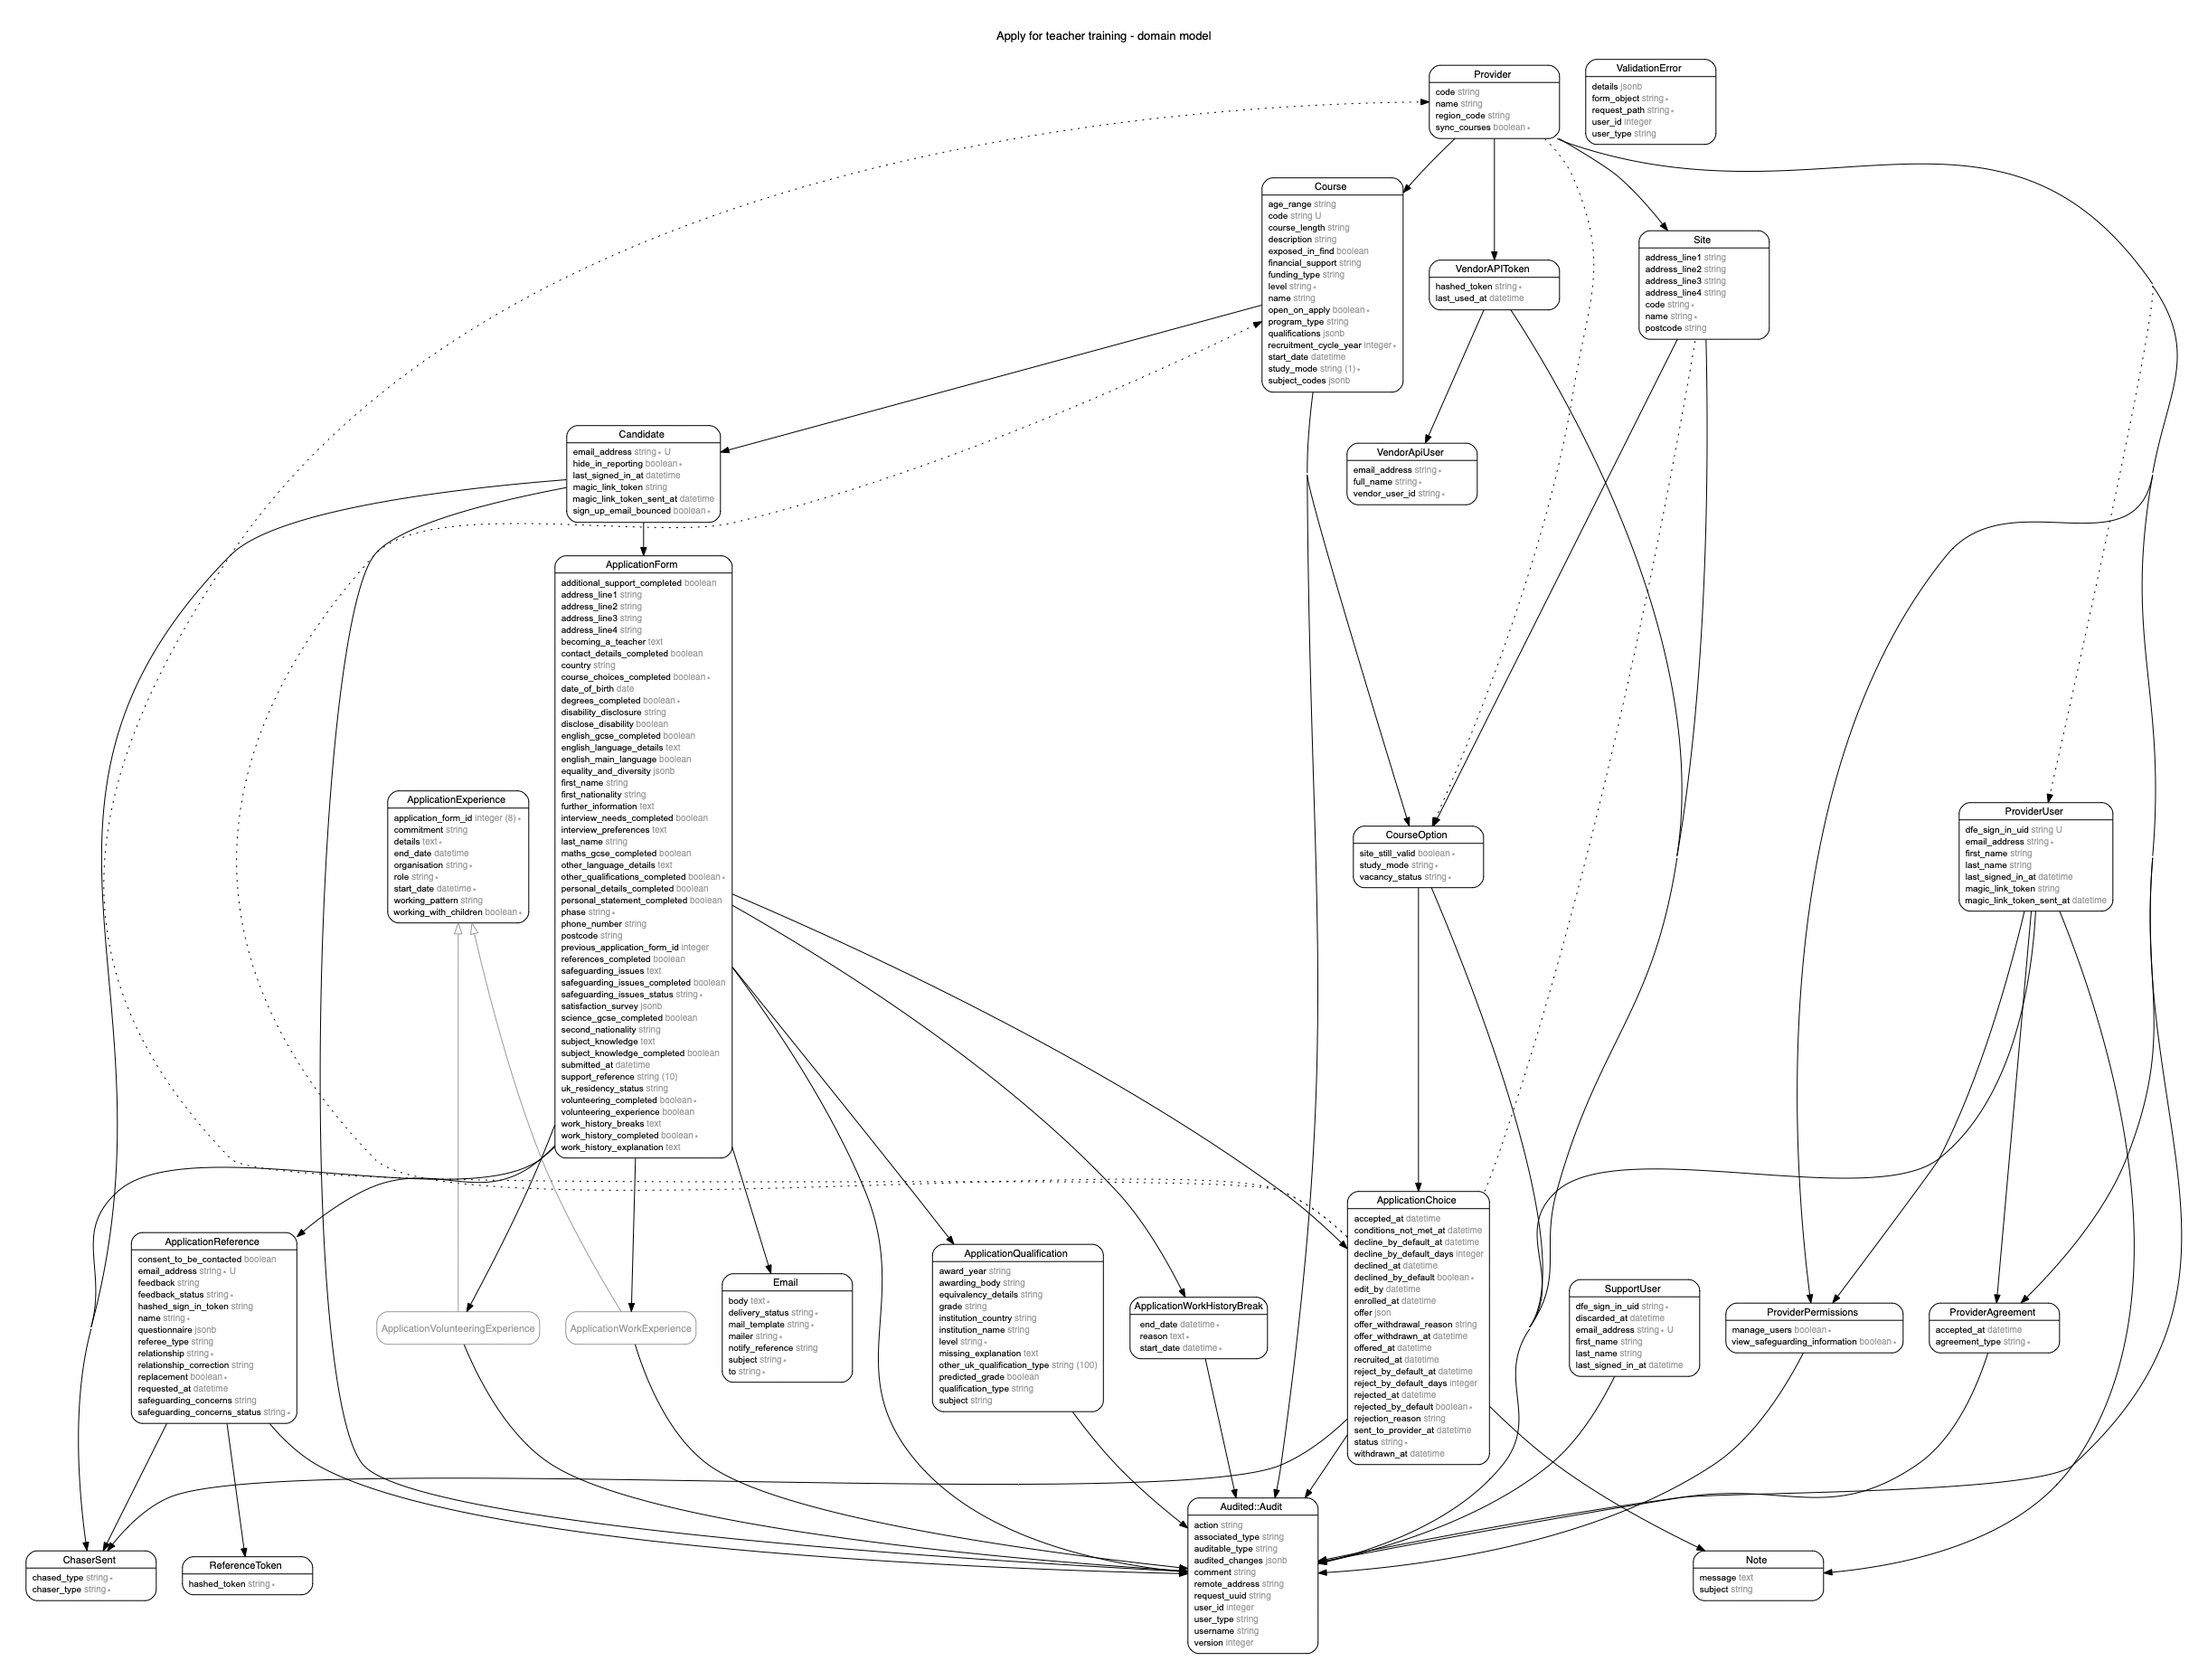
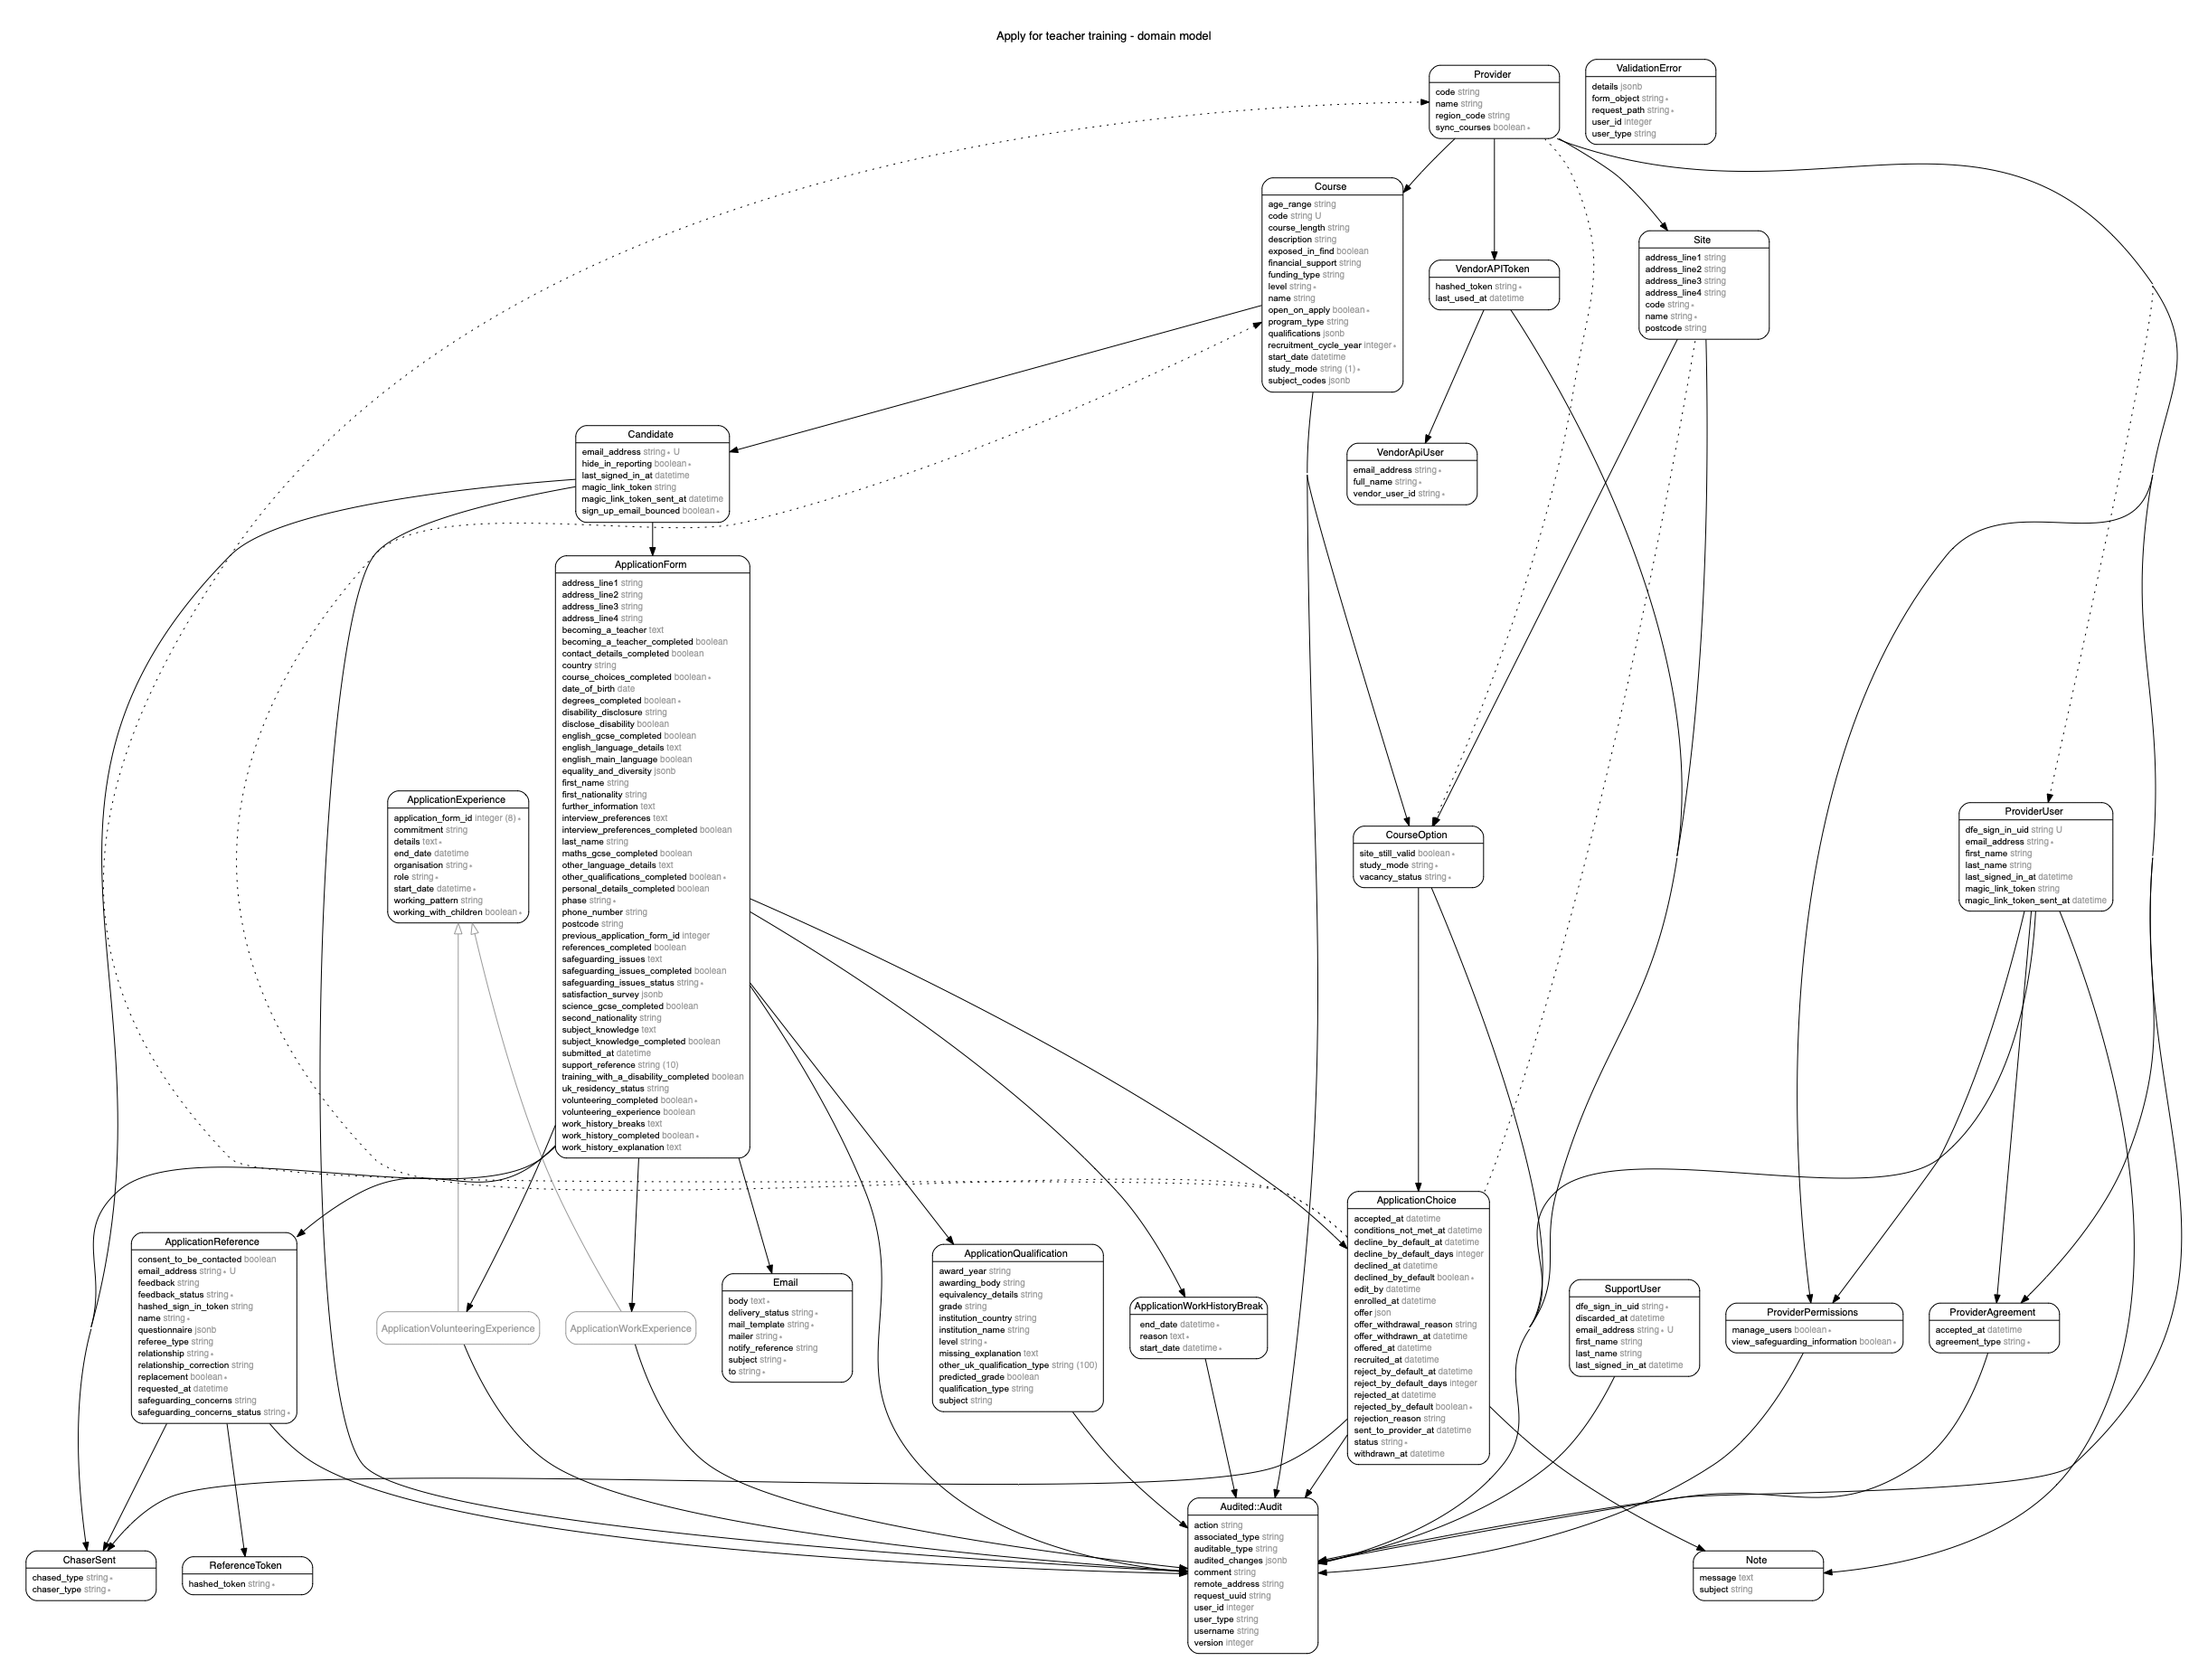
Change additional_support_completed to training_with_a_disability_completed

Changed region(s): [[0.249, 0.2497, 0.3735, 0.6868], [0.3735, 0.5619, 0.4046, 0.5931]]

diff --git a/db/schema.rb b/db/schema.rb
@@ -10,7 +10,7 @@
 #
 # It's strongly recommended that you check this file into your version control system.
 
-ActiveRecord::Schema.define(version: 2020_05_14_111744) do
+ActiveRecord::Schema.define(version: 2020_05_14_202901) do
 
   # These are extensions that must be enabled in order to support this database
   enable_extension "pgcrypto"
@@ -109,11 +109,11 @@ ActiveRecord::Schema.define(version: 2020_05_14_111744) do
     t.boolean "contact_details_completed", default: false
     t.boolean "english_gcse_completed", default: false
     t.boolean "maths_gcse_completed", default: false
-    t.boolean "additional_support_completed", default: false
+    t.boolean "training_with_a_disability_completed", default: false
     t.boolean "safeguarding_issues_completed", default: false
-    t.boolean "personal_statement_completed", default: false
+    t.boolean "becoming_a_teacher_completed", default: false
     t.boolean "subject_knowledge_completed", default: false
-    t.boolean "interview_needs_completed", default: false
+    t.boolean "interview_preferences_completed", default: false
     t.boolean "references_completed", default: false
     t.boolean "science_gcse_completed", default: false
     t.index ["candidate_id"], name: "index_application_forms_on_candidate_id"

diff --git a/db/migrate/20200514202901_change_additional_support_to_training_with_disability.rb b/db/migrate/20200514202901_change_additional_support_to_training_with_disability.rb
@@ -1,0 +1,7 @@
+class ChangeAdditionalSupportToTrainingWithDisability < ActiveRecord::Migration[6.0]
+  def change
+    rename_column :application_forms, :additional_support_completed, :training_with_a_disability_completed
+    rename_column :application_forms, :personal_statement_completed, :becoming_a_teacher_completed
+    rename_column :application_forms, :interview_needs_completed, :interview_preferences_completed
+  end
+end
